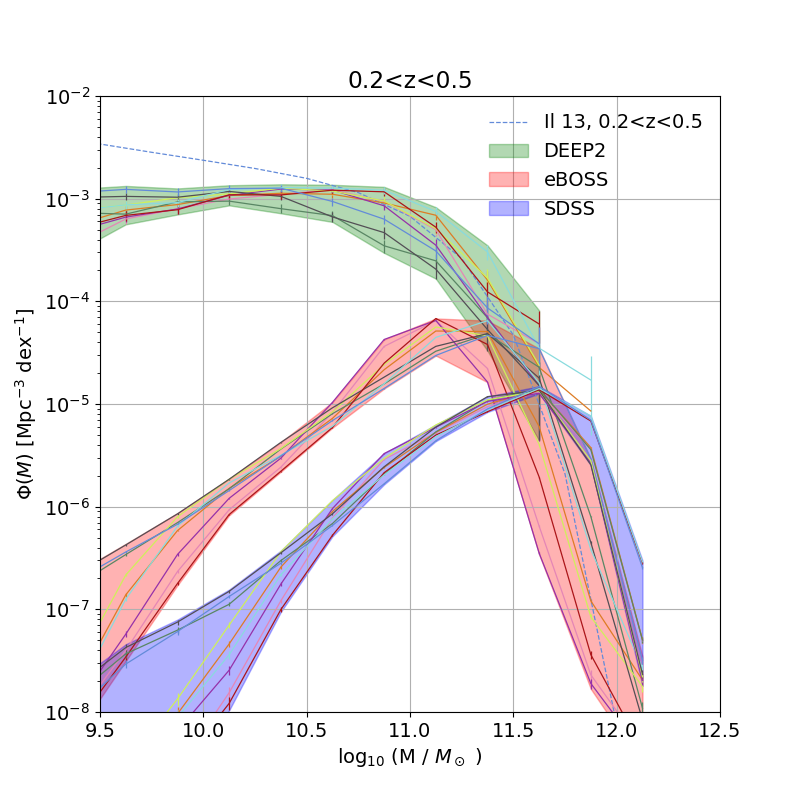
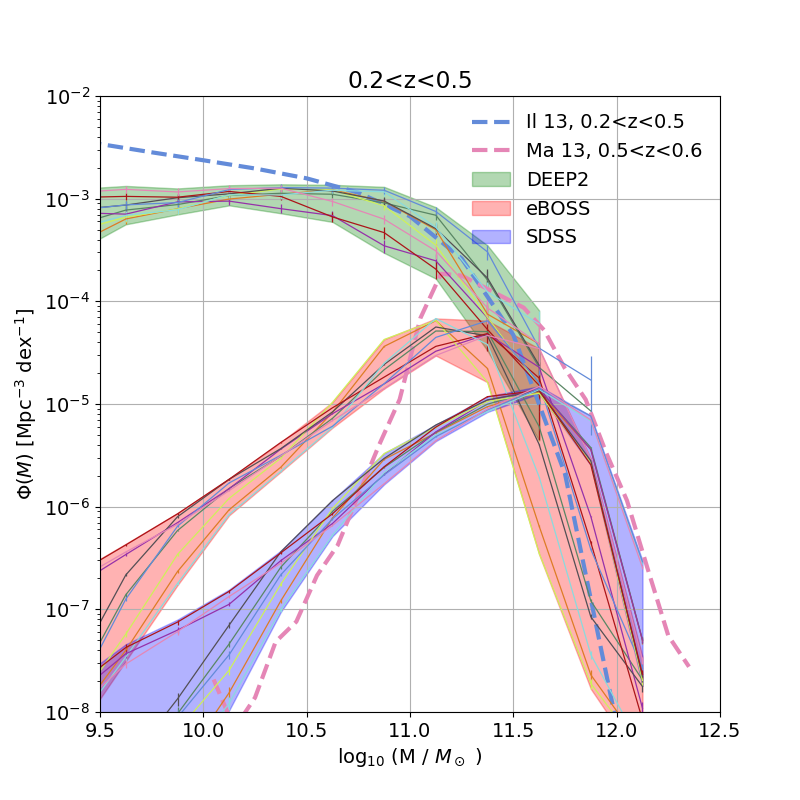
new pltos

Changed region(s): [[0.125, 0.125, 0.875, 0.9062], [0.8438, 0.8125, 0.875, 0.8438], [0.125, 0.1562, 0.1562, 0.1875]]

diff --git a/bin/bin_SMF/test.py b/bin/bin_SMF/test.py
@@ -186,6 +186,7 @@ def get_basic_stat(catalog, z_name, z_flg, name, zflg_min, prefix):
     return catalog_sel, m_catalog, w_catalog, l_o2, l_o3, l_hb
     
 
+x_M13, yM13 = n.loadtxt( os.path.join(os.environ['HOME'],'/software/linux/firefly_explore/data/literature/Maraston_13_05_06.txt' ), unpack=True) 
 
 p.figure(1, (8,8))
 if z_min==0.2:
@@ -194,6 +195,8 @@ if z_min==0.5:
 	p.plot(mbins, smf0508(10**mbins), label='Il 13, 0.5<z<0.8', ls='dashed', lw=3)
 if z_min==0.8:
 	p.plot(mbins, smf0811(10**mbins), label='Il 13, 0.8<z<1.1', ls='dashed', lw=3)
+
+p.plot(x_M13, yM13, label='Ma 13, 0.5<z<0.6', ls='dashed', lw=3)
 
 # DEEP2 lines
 xs,ys,yes = [],[],[]
